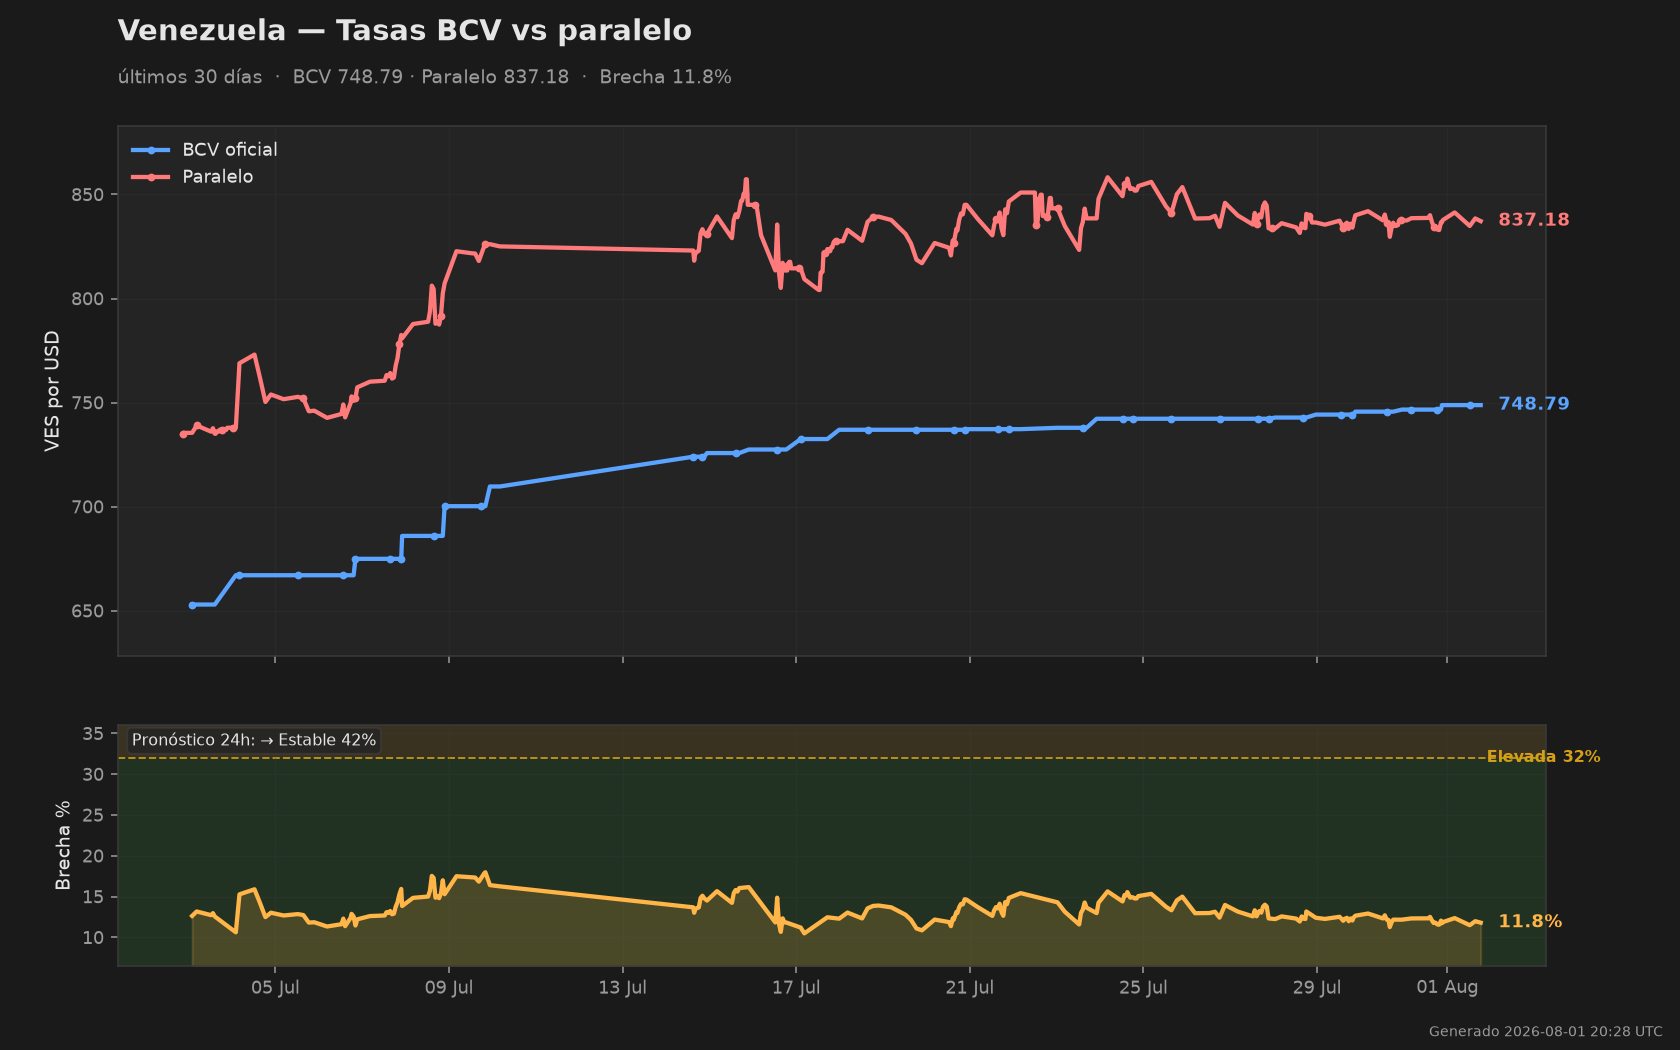
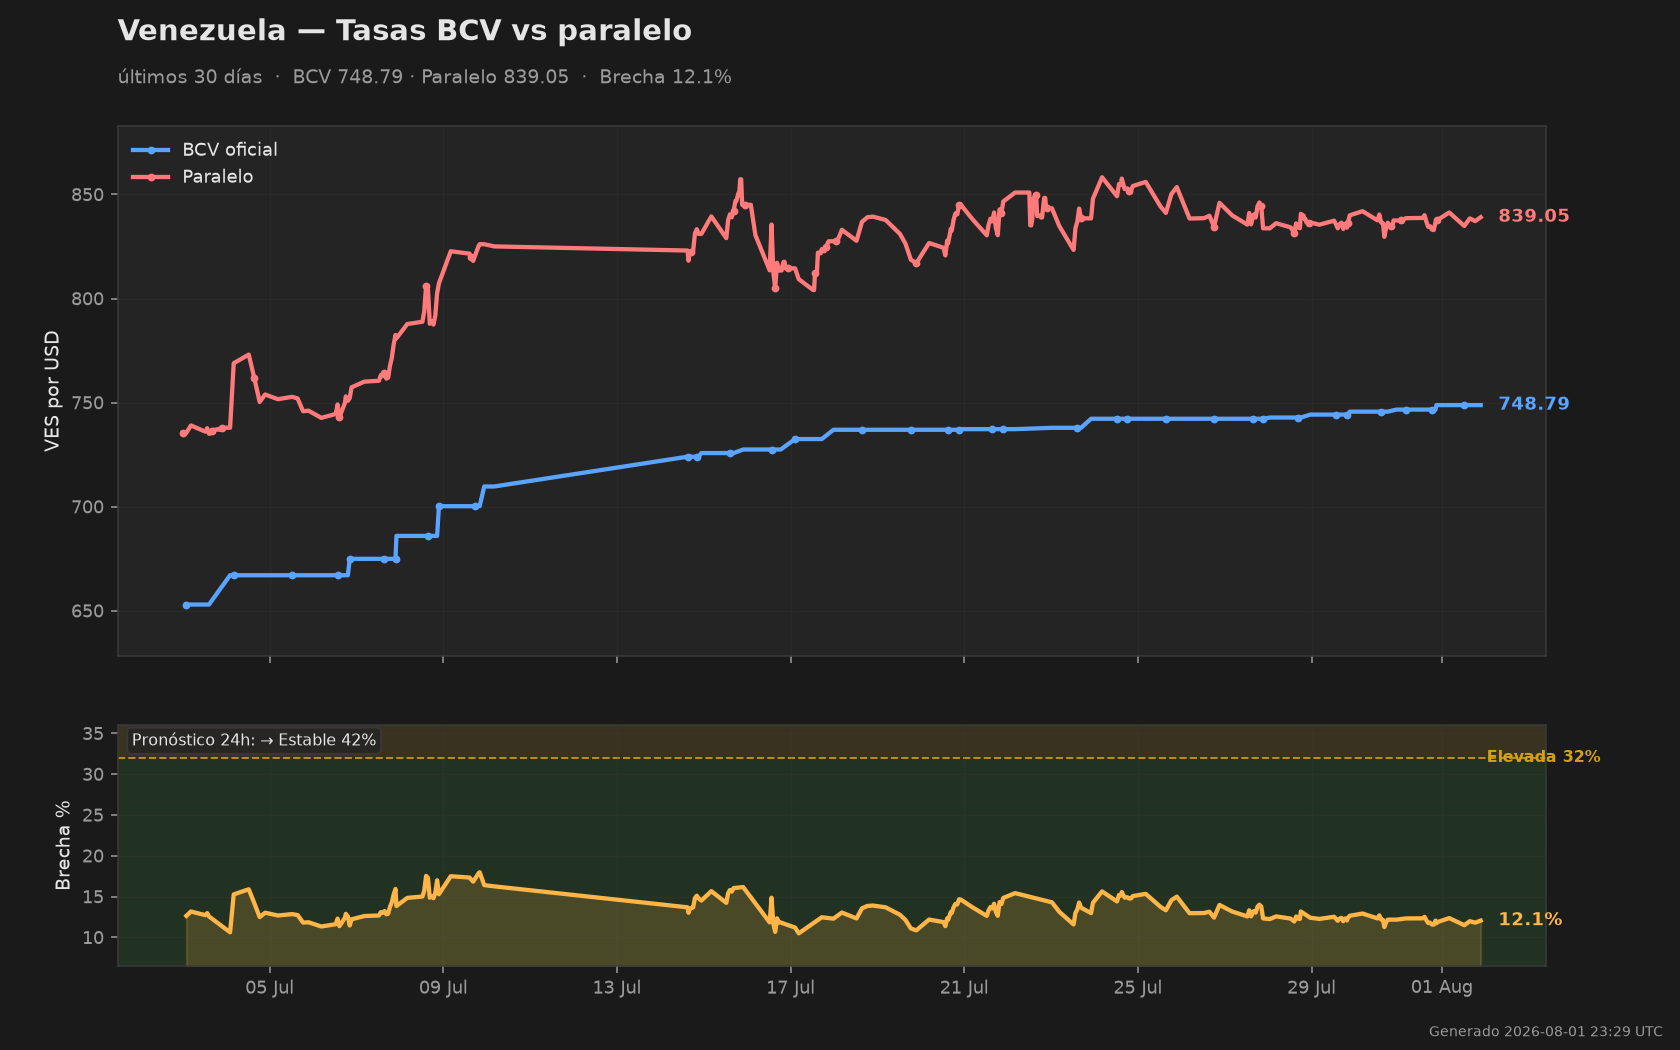
Dashboard update 2026-08-01 23:29 UTC

diff --git a/README.md b/README.md
@@ -11,11 +11,11 @@
 | Metric · Métrica | Value · Valor |
 |---|---|
 | BCV Oficial | **748.79** VES/USD |
-| Paralelo | **837.18** VES/USD |
-| Brecha · Spread | **11.8%** |
-| Binance P2P USDT/VES | **846.05** VES/USDT (+1.1% vs paralelo) |
+| Paralelo | **839.05** VES/USD |
+| Brecha · Spread | **12.1%** |
+| Binance P2P USDT/VES | **845.50** VES/USDT (+0.8% vs paralelo) |
 | **Pronóstico 24h · 24h Forecast** | **→ Estable · Stable (57%)** |
-| Actualizado · Updated | 2026-08-01 18:27 UTC |
+| Actualizado · Updated | 2026-08-01 21:29 UTC |
 
 ![Venezuela BCV vs parallel rate — last 30 days](data/chart.png)
 
